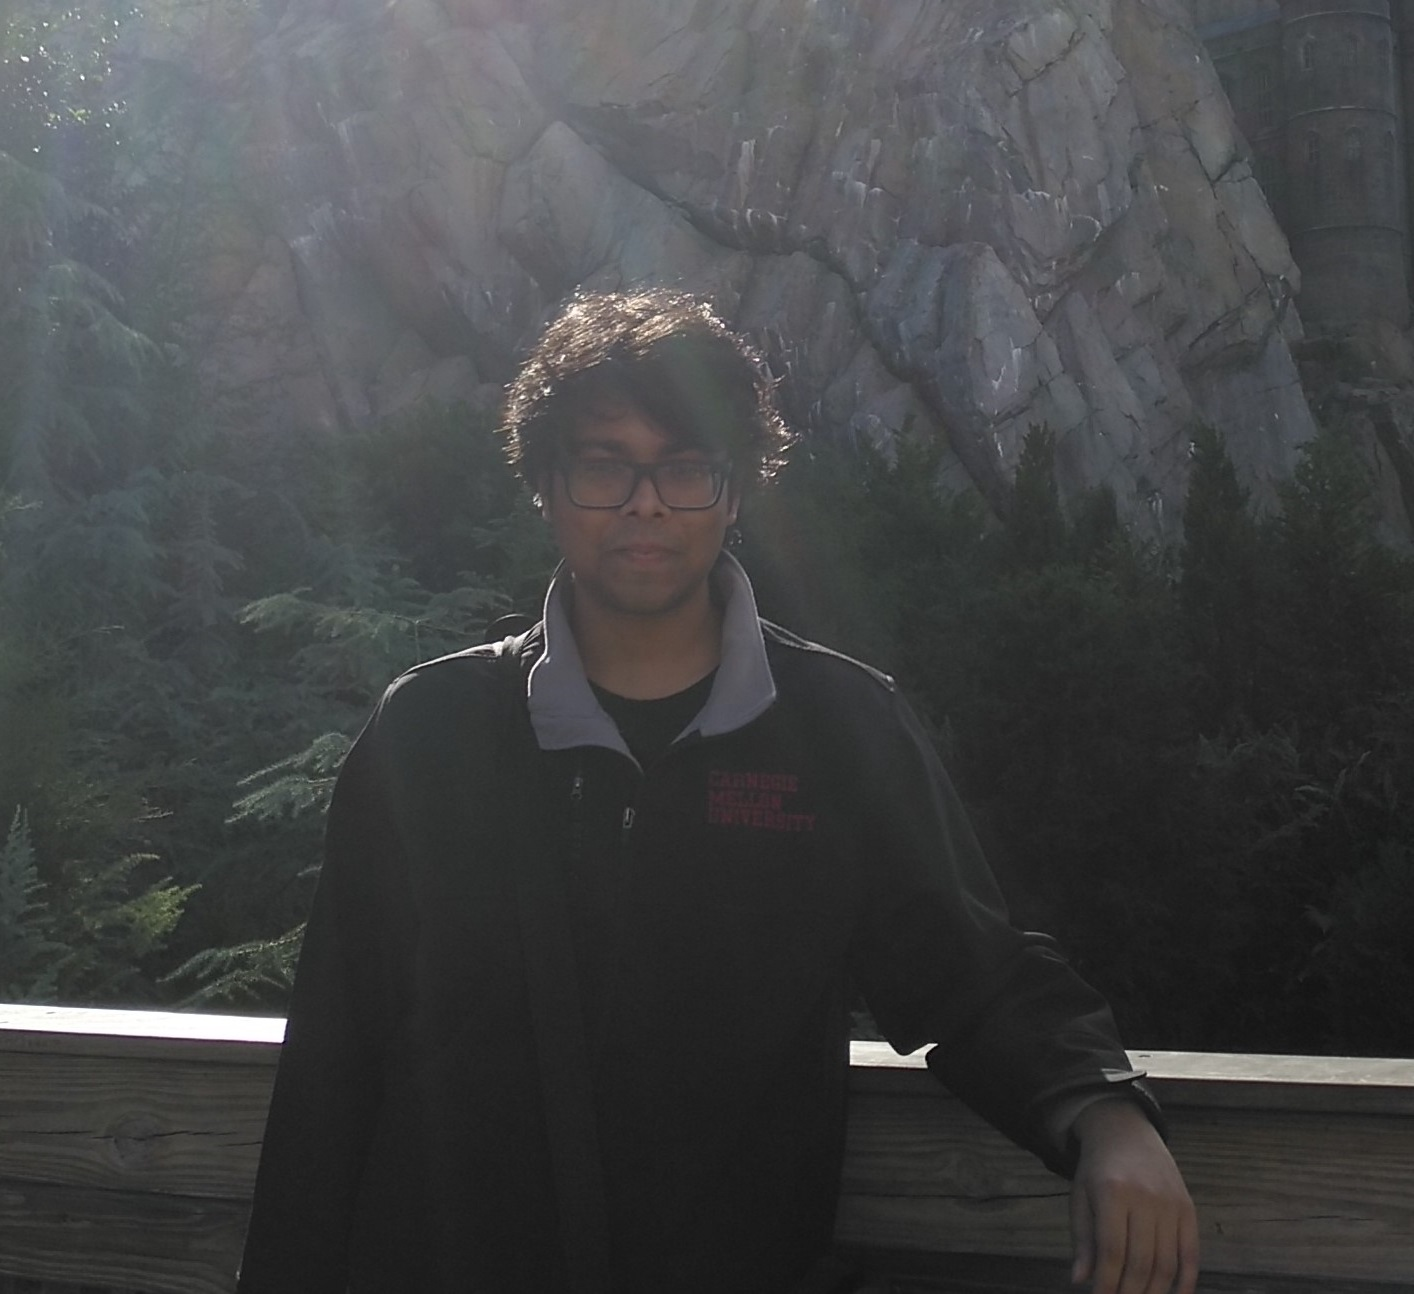
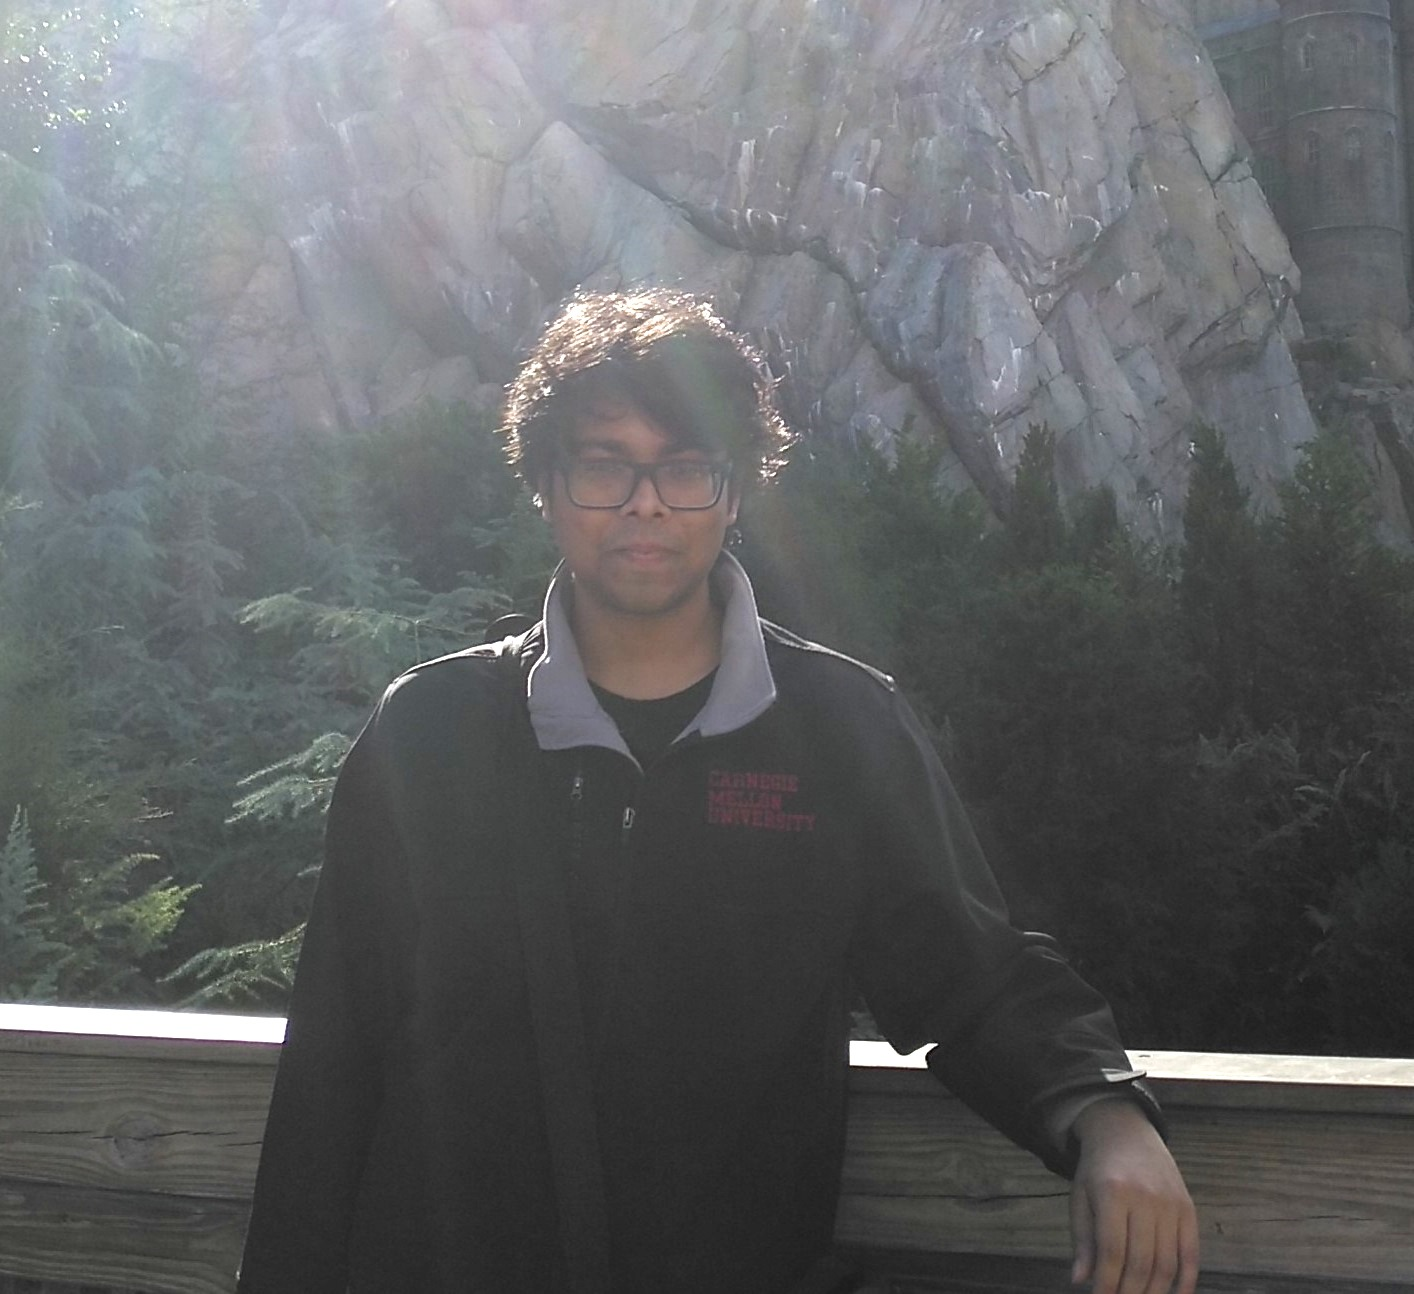
updated picture

diff --git a/index.html b/index.html
@@ -130,8 +130,8 @@
                 </div><!-- end col -->
 
                 <div class="col-md-6">
-                    <div class="right-box-pro wow fadeIn">
-                        <img src="uploads/sabit-hassan.jpg" alt="sabit in orlando universal studios" class="img-fluid img-rounded">
+                    <div>
+                        <img src="uploads/sabit-hassan.jpg" alt="sabit in orlando universal studios" class="img-fluid img-rounded" style = "border-radius: 50%;">
                     </div><!-- end media -->
                 </div><!-- end col -->
             </div><!-- end row -->

diff --git a/style.css b/style.css
@@ -646,7 +646,7 @@ xclip
 	position: relative;
 	z-index: 2;
 }
-.right-box-pro::before {
+/*.right-box-pro::before {
     content: "";
     background: url(images/country-quilt-dark.png);
     width: 100%;
@@ -656,7 +656,7 @@ xclip
     right: -20px;
     z-index: 0;
 }
-
+*/
 
 
 .services-inner-box{
